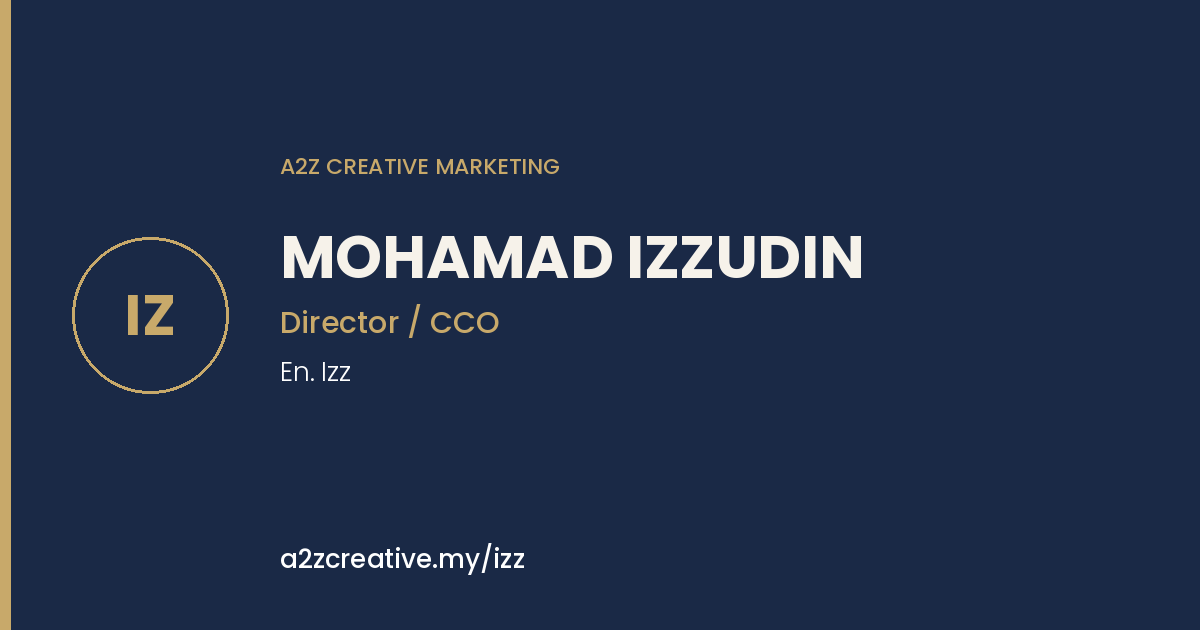
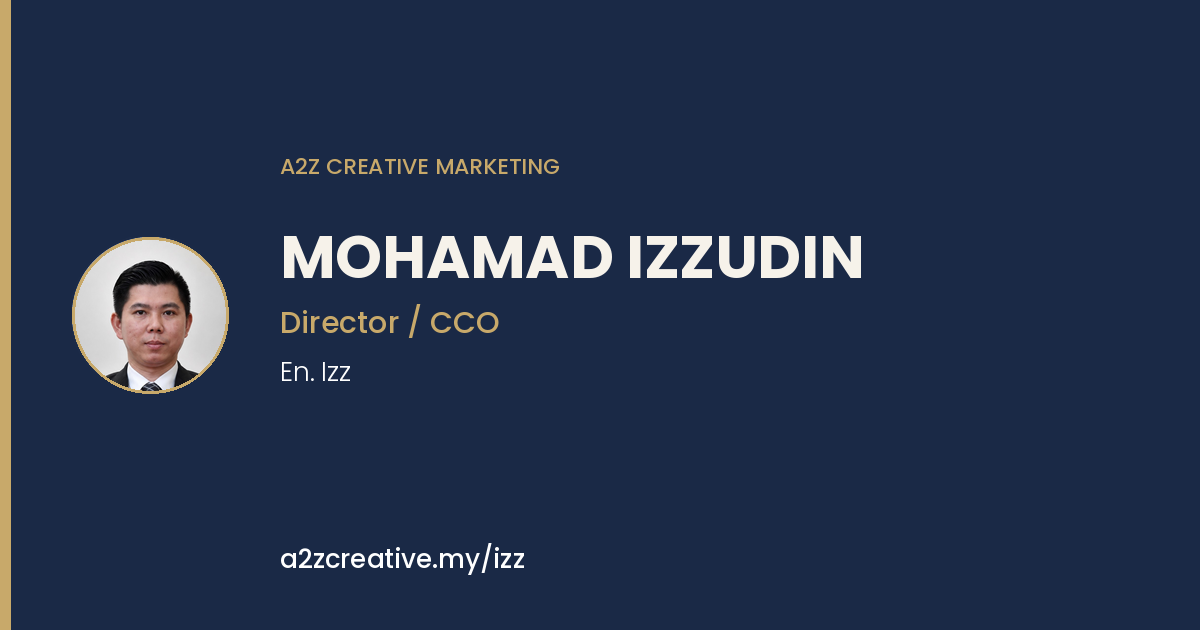
portal deploy

Changed region(s): [[0.0617, 0.3619, 0.2158, 0.6333]]

diff --git a/constants/team.ts b/constants/team.ts
@@ -71,7 +71,7 @@ export const TEAM: readonly TeamCard[] = [
     mobile: "012-2461823",
     mobileE164: "+60122461823",
     monogram: "AF",
-    photo: "",
+    photo: "/cards/farhan.jpg",
     lead: "Leads A2Z Creative Marketing — brand direction, live commerce, and the client partnerships behind both.",
   },
   {
@@ -84,7 +84,7 @@ export const TEAM: readonly TeamCard[] = [
     mobile: "012-7087920",
     mobileE164: "+60127087920",
     monogram: "IZ",
-    photo: "",
+    photo: "/cards/izz.jpg",
     lead: "Creative direction across campaigns, content and the way the brands we work with are seen.",
   },
   {
@@ -97,7 +97,7 @@ export const TEAM: readonly TeamCard[] = [
     mobile: "014-3569293",
     mobileE164: "+60143569293",
     monogram: "ZO",
-    photo: "",
+    photo: "/cards/zoll.jpg",
     lead: "Operations — live schedules, fulfilment and the day-to-day that keeps a campaign running.",
   },
 ] as const;

diff --git a/scripts/card-og.py b/scripts/card-og.py
@@ -1,0 +1,166 @@
+"""
+card-og.py (v1.71.0) - regenerate the business-card assets in public/cards/.
+
+  python scripts/card-og.py            # QR + Open Graph image for every card
+  pip install qrcode pillow            # the only two dependencies
+
+WHY A SCRIPT AND NOT A BUILD STEP
+The Open Graph image and the QR change only when a person, a role or a slug
+changes - which is roughly never. Generating them on every build would put a
+Python dependency into the Cloudflare build container for no gain, and would
+make a deploy fail for a reason that has nothing to do with the deploy. So
+these are committed assets, and this is how they are rebuilt.
+
+Run it after editing constants/team.ts, then run the guard:
+
+  python scripts/card-og.py
+  node tests/business-cards.mjs --write     # rebuilds the .vcf files
+  node tests/business-cards.mjs             # checks everything agrees
+
+THE PHOTO
+If a card has `photo` set in constants/team.ts (a path under public/, e.g.
+"/cards/farhan.jpg") it is cropped to a circle and used on the Open Graph
+image, so forwarding the link in WhatsApp shows the person's face. With no
+photo the two-letter monogram is drawn instead - which is the same fallback
+the page itself uses, so the page and the preview never disagree.
+"""
+
+import os
+import re
+import sys
+
+try:
+    import qrcode
+    from PIL import Image, ImageDraw, ImageFont
+except ImportError:
+    sys.exit("Missing dependencies. Run:  pip install qrcode pillow")
+
+ROOT = os.path.dirname(os.path.dirname(os.path.abspath(__file__)))
+PUBLIC = os.path.join(ROOT, "public")
+OUT = os.path.join(PUBLIC, "cards")
+
+# Brand tokens, straight from styles/globals.css. Keep them in step.
+NAVY = (26, 41, 70)      # --brand-primary  #1a2946
+GOLD = (200, 169, 106)   # --brand-accent   #c8a96a
+CREAM = (246, 242, 234)
+WHITE = (255, 255, 255)
+
+# Poppins is the site typeface (app/layout.tsx). Windows installs it into the
+# user font directory; Linux CI images keep it under google-fonts. The last
+# entry is a legibility fallback so this script never simply dies - it says
+# which font it used instead.
+FONT_DIRS = [
+    os.path.expandvars(r"%LOCALAPPDATA%\Microsoft\Windows\Fonts"),
+    r"C:\Windows\Fonts",
+    "/usr/share/fonts/truetype/google-fonts",
+    "/usr/share/fonts/truetype/dejavu",
+]
+FONT_FILES = {
+    "bold": ["Poppins-Bold.ttf", "DejaVuSans-Bold.ttf", "arialbd.ttf"],
+    "medium": ["Poppins-Medium.ttf", "DejaVuSans.ttf", "arial.ttf"],
+    "light": ["Poppins-Light.ttf", "DejaVuSans.ttf", "arial.ttf"],
+}
+_reported = set()
+
+
+def font(weight, size):
+    for name in FONT_FILES[weight]:
+        for d in FONT_DIRS:
+            p = os.path.join(d, name)
+            if os.path.exists(p):
+                if name not in _reported and not name.startswith("Poppins"):
+                    print("  ! Poppins not found, falling back to %s" % name)
+                    _reported.add(name)
+                return ImageFont.truetype(p, size)
+    sys.exit("No usable font found. Install Poppins, or edit FONT_DIRS above.")
+
+
+def people():
+    src = open(os.path.join(ROOT, "constants", "team.ts"), encoding="utf-8").read()
+    found = re.findall(
+        r'\{\s*slug:\s*"([a-z0-9-]+)",\s*name:\s*"([^"]+)",\s*known:\s*"([^"]+)",'
+        r'\s*role:\s*"([^"]+)"[\s\S]*?monogram:\s*"([^"]*)",\s*photo:\s*"([^"]*)",',
+        src,
+    )
+    if not found:
+        sys.exit("Could not parse constants/team.ts - has the record shape changed?")
+    return found
+
+
+def circle_photo(path, size):
+    """Square-crop from the centre, resize, and mask to a circle."""
+    im = Image.open(path).convert("RGB")
+    w, h = im.size
+    side = min(w, h)
+    im = im.crop(((w - side) // 2, (h - side) // 2, (w + side) // 2, (h + side) // 2))
+    im = im.resize((size, size), Image.LANCZOS)
+    mask = Image.new("L", (size * 4, size * 4), 0)
+    ImageDraw.Draw(mask).ellipse([0, 0, size * 4, size * 4], fill=255)
+    im.putalpha(mask.resize((size, size), Image.LANCZOS))
+    return im
+
+
+def build(slug, name, known, role, mono, photo):
+    url = "https://a2zcreative.my/%s" % slug
+
+    # ---- QR: 900 px, so the same file serves the page and the print artwork
+    qr = qrcode.QRCode(error_correction=qrcode.constants.ERROR_CORRECT_M, box_size=20, border=2)
+    qr.add_data(url)
+    qr.make(fit=True)
+    qr.make_image(fill_color=NAVY, back_color=WHITE).convert("RGB").resize(
+        (900, 900), Image.NEAREST
+    ).save(os.path.join(OUT, "%s-qr.png" % slug), optimize=True)
+
+    # ---- Open Graph: 1200x630, the size every messenger crops to
+    W, H = 1200, 630
+    og = Image.new("RGB", (W, H), NAVY)
+    d = ImageDraw.Draw(og)
+    d.rectangle([0, 0, 10, H], fill=GOLD)          # the gold edge off the printed card
+
+    cx, cy, r = 150, 315, 78
+    if photo:
+        p = os.path.join(PUBLIC, photo.lstrip("/").replace("/", os.sep))
+        if not os.path.exists(p):
+            sys.exit("%s: photo %s is set in constants/team.ts but not in public/" % (slug, photo))
+        face = circle_photo(p, r * 2)
+        og.paste(face, (cx - r, cy - r), face)
+        d.ellipse([cx - r, cy - r, cx + r, cy + r], outline=GOLD, width=3)
+    else:
+        d.ellipse([cx - r, cy - r, cx + r, cy + r], outline=GOLD, width=3)
+        f = font("bold", 56)
+        bb = d.textbbox((0, 0), mono, font=f)
+        d.text((cx - (bb[2] - bb[0]) / 2 - bb[0], cy - (bb[3] - bb[1]) / 2 - bb[1]),
+               mono, font=f, fill=GOLD)
+
+    x = 280
+    d.text((x, 150), "A2Z CREATIVE MARKETING", font=font("medium", 22), fill=GOLD)
+
+    f_name = font("bold", 60)
+    lines, cur = [], ""
+    for word in name.split():
+        t = (cur + " " + word).strip()
+        if d.textlength(t, font=f_name) > W - x - 70 and cur:
+            lines.append(cur)
+            cur = word
+        else:
+            cur = t
+    lines.append(cur)
+    y = 215
+    for ln in lines:
+        d.text((x, y), ln, font=f_name, fill=CREAM)
+        y += 76
+
+    y += 10
+    d.text((x, y), role, font=font("medium", 30), fill=GOLD)
+    d.text((x, y + 52), known, font=font("light", 26), fill=WHITE)
+    d.text((x, H - 90), "a2zcreative.my/%s" % slug, font=font("medium", 26), fill=WHITE)
+    og.save(os.path.join(OUT, "%s-og.png" % slug), optimize=True)
+
+
+if __name__ == "__main__":
+    if not os.path.isdir(OUT):
+        os.makedirs(OUT)
+    for card in people():
+        build(*card)
+        print("  wrote public/cards/%s-og.png and %s-qr.png" % (card[0], card[0]))
+    print("\nNow run:  node tests/business-cards.mjs")

diff --git a/IMPLEMENTATION-PLAN.md b/IMPLEMENTATION-PLAN.md
@@ -1475,7 +1475,7 @@ Nothing here should be settled by whoever writes the code first. Each needs your
 
 | **OD-29** | **Are the directors' mobile numbers public on the card pages?** (Track V) | (a) Publish as printed. (b) Behind one tap (*Show number*), which stops most scrapers. (c) WhatsApp only, no number shown. | **(a).** You hand this number to strangers by design; a card that hides it failed at its one job. Revisit if spam actually arrives — (b) is a one-line change. **Decided 30-08-2026: (a)** — published as printed. (b) stays a one-line change if spam arrives. |
 
-| **OD-30** | **Which photo goes on a card page?** (Track V) | (a) Reuse the portal staff photo (`photo_key`, already on the badge card). (b) Commission studio shots first. | **(a).** A card that ships is worth more than a card waiting on a photographer, and the page reads a field — swap them individually later. **Decided 30-08-2026: (a) deferred to a field** — v1.71.0 ships an explicit two-letter monogram (`AF`, `IZ`, `ZO`) rather than the portal photo, because the portal photo lives behind the API this track deliberately does not depend on. Drop a file into `public/` and set `photo` and it renders; nothing else changes. |
+| **OD-30** | **Which photo goes on a card page?** (Track V) | (a) Reuse the portal staff photo (`photo_key`, already on the badge card). (b) Commission studio shots first. | **(a).** A card that ships is worth more than a card waiting on a photographer, and the page reads a field — swap them individually later. **Decided 30-08-2026: (c) — the photo, copied in.** The CEO supplied the three headshots the same day, so v1.71.0 ships them as STATIC files in `public/cards/`, cropped square on the face and framed identically across the three. Not fetched from the portal: `/api/v1/media/file/<key>` would put a grey box on a client's screen whenever the API had a bad day, and would make every staff photo publicly fetchable by key. The explicit two-letter monogram (`AF`, `IZ`, `ZO`) remains the fallback for a record with no photo. |
 
 | **OD-31** | **Three directors only, or everyone client-facing?** (Track V) | (a) The three printed cards. (b) Also Nur Nasuha (sales marketing) and Nur Dini (live host), who deal with clients directly. | **(a) first.** Ship exactly what is printed, then extend once the shape has survived contact with a real client. The work is identical either way. **Decided 30-08-2026: (a)** — the three printed cards. Adding a fourth person is one record in `constants/team.ts` plus `--write`. |
 

diff --git a/CHANGELOG.md b/CHANGELOG.md
@@ -27,6 +27,10 @@ That is a deliberate refusal of the obvious design. **A card is printed on paper
 - **Its own QR** on the page, for when the holder is out of cards.
 - **A per-card Open Graph image** — forwarding the link in WhatsApp shows a name and a role, not a bare URL. That is how a card actually spreads.
 
+### The photos
+
+Each card carries the person's own headshot, cropped square on the face and cut to a circle — the same three images the portal holds, but **as static files in `public/cards/`, not fetched from it**. Pointing the page at `/api/v1/media/file/<key>` would have put a grey box on a client's screen every time the API had a bad day, and would have made every staff photo publicly fetchable by key. All three are framed identically (the face fills 59% of the frame) so the three cards read as one set, and the same photo goes onto the link-preview image, so forwarding a card in WhatsApp now shows the person rather than two letters. `scripts/card-og.py` does the compositing and regenerates every QR and preview from `constants/team.ts`; the monogram stays as the fallback for a record with no photo yet.
+
 `N:;MOHD ALIF FARHAN;;;` — given name only, no surname field. A phone that decides "MOHD" is a surname sorts the contact wrongly and then greets them by it.
 
 ### The floating WhatsApp button is hidden on a card page
